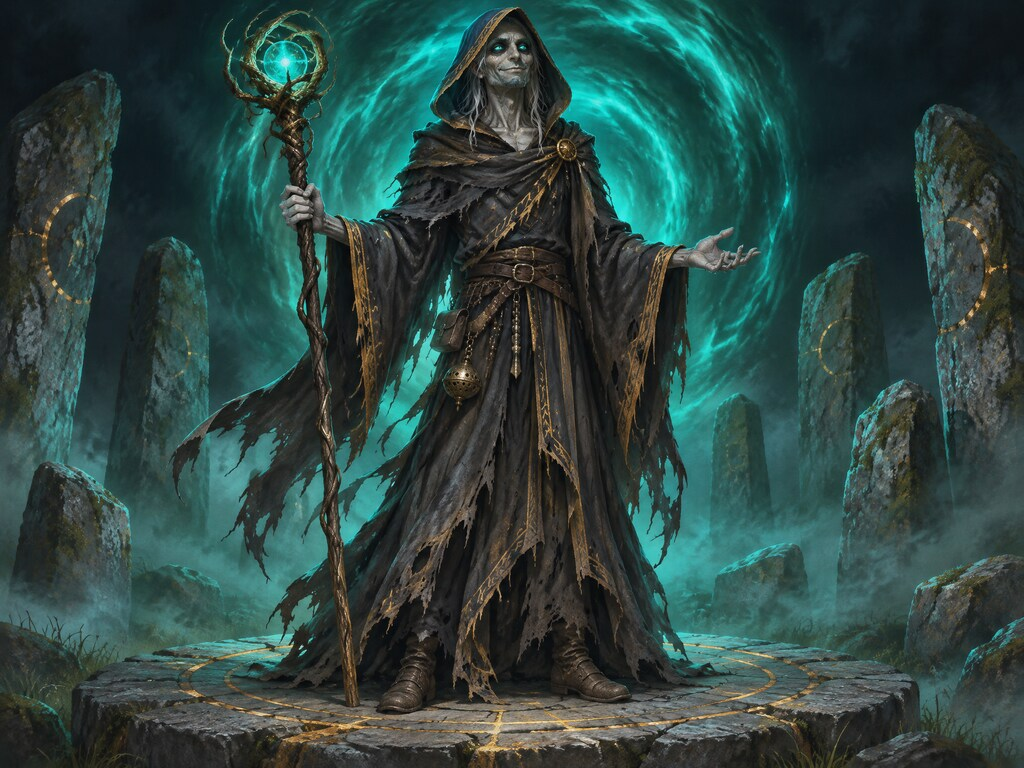
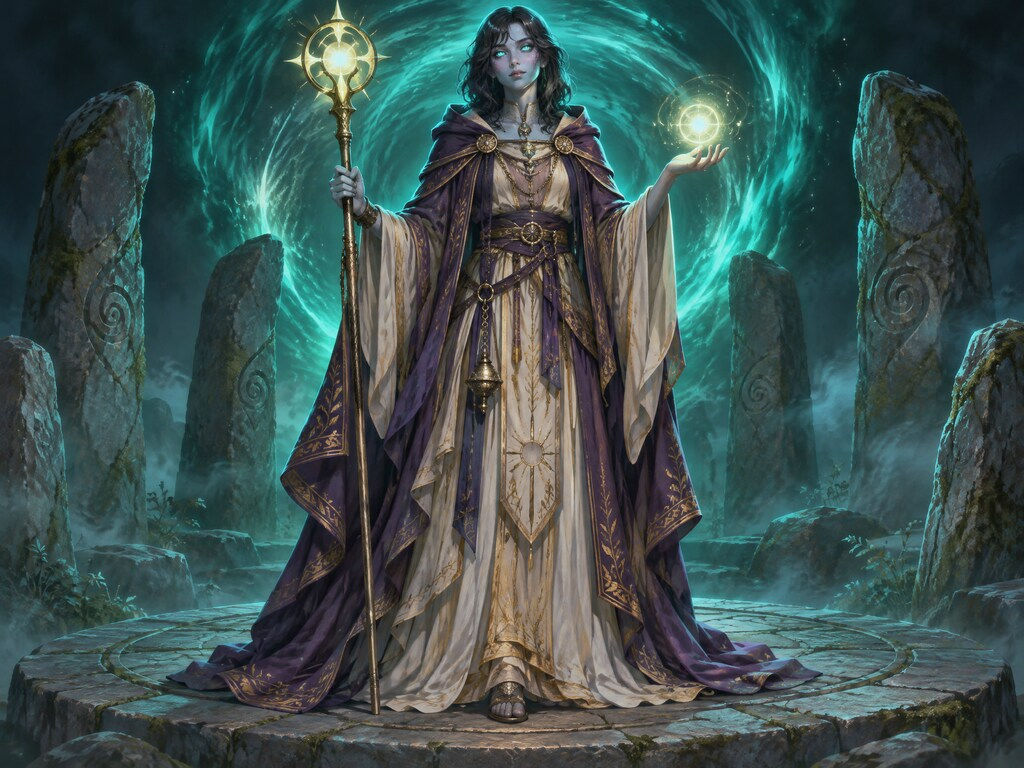
Ny präst-bild, Blizzking och klass för Lumos
Claude-Session: https://claude.ai/code/session_011Pk3ZqBVS4VHinLG8Ys8T9

diff --git a/index.html b/index.html
@@ -14,7 +14,7 @@
    PICTURE night scene with three hooded travellers walking a path to a glowing stone portal; intro: the portal opening
    COLOUR fixed night palette: smoke-brown ground, parchment ink, guild gold, arcane teal for magic, ember red for fines
    TYPE Cinzel for headings, Crimson Pro for text
-   LAYOUT nav, full-width scene with title in its sky, menu tiles overlapping its foot, rules, characters, guestbook, Blizzgirl, footer; phone stacks */
+   LAYOUT nav, full-width scene with title in its sky, menu tiles overlapping its foot, rules, characters, guestbook, Blizzking, footer; phone stacks */
 :root{color-scheme:dark;--bg:#14100c;--panel:#1d1711;--deep:#100c09;--edge:#4d3c24;--gold:#d9b26a;--gold2:#a8874e;--ink:#efe4cf;--muted:#bba98a;--red:#ea7d60;--teal:#62d6c8;--teal2:#1d6a64}
 *{box-sizing:border-box;min-width:0}
 html{scroll-padding-top:68px;scroll-behavior:smooth;background:var(--bg)}
@@ -181,7 +181,7 @@ button:disabled{opacity:.5;cursor:default}
   <button id="skip" type="button">Hoppa över</button>
 </div>
 
-<header class="nav"><div class="wrap navin"><a class="brand" href="#top">Gruppen</a><nav aria-label="Huvudmeny"><a href="#regler">Regler</a><a href="#gubbar">Gubbar</a><a href="#gosta">Blizzgirl</a></nav></div></header>
+<header class="nav"><div class="wrap navin"><a class="brand" href="#top">Gruppen</a><nav aria-label="Huvudmeny"><a href="#regler">Regler</a><a href="#gubbar">Gubbar</a><a href="#gosta">Blizzking</a></nav></div></header>
 
 <section class="hero" id="top">
   <img class="scene" src="hero.jpg" width="1024" height="512" alt="Tre vandrare går uppför en stig mot en lysande portal i en ring av stenar">
@@ -192,7 +192,7 @@ button:disabled{opacity:.5;cursor:default}
 <nav class="menu wrap" aria-label="Snabbmeny">
   <a class="tile" href="#regler"><svg viewBox="0 0 32 32"><path d="M8 5h17a3 3 0 0 1 0 6H22v14a3 3 0 0 1-3 3H6a3 3 0 0 1 0-6h3V8a3 3 0 0 0-1-3Z"/><path d="M13 13h5M13 17h5M13 21h4"/></svg><span class="tt">Spelregler</span><span class="ts">8 regler att följa</span></a>
   <a class="tile" href="#gubbar"><svg viewBox="0 0 32 32"><path d="M16 3l10 4v8c0 7-5 11-10 14C11 26 6 22 6 15V7Z"/><path d="M16 10v10M11 15h10"/></svg><span class="tt">Våra gubbar</span><span class="ts" id="t-chars">Levlar</span></a>
-  <a class="tile" href="#gosta"><svg viewBox="0 0 32 32"><path d="M6 19v-3a10 10 0 0 1 20 0v3"/><rect x="4" y="18" width="6" height="9" rx="2"/><rect x="22" y="18" width="6" height="9" rx="2"/><path d="M25 27c0 2-3 3-7 3"/></svg><span class="tt">Blizzgirl</span><span class="ts">Klicka för tips</span></a>
+  <a class="tile" href="#gosta"><svg viewBox="0 0 32 32"><path d="M6 19v-3a10 10 0 0 1 20 0v3"/><rect x="4" y="18" width="6" height="9" rx="2"/><rect x="22" y="18" width="6" height="9" rx="2"/><path d="M25 27c0 2-3 3-7 3"/></svg><span class="tt">Blizzking</span><span class="ts">Klicka för tips</span></a>
 </nav>
 
 <section id="regler" class="band wrap">
@@ -223,10 +223,10 @@ button:disabled{opacity:.5;cursor:default}
 
 <section id="gosta" class="band wrap">
   <div class="gs panel">
-    <button type="button" class="gpic" id="gosta-btn" aria-label="Klicka på Blizzgirl för ett tips"><img src="gosta.jpg" width="800" height="800" alt="Blizzgirl med glasögon och headset som vinkar"></button>
+    <button type="button" class="gpic" id="gosta-btn" aria-label="Klicka på Blizzking för ett tips"><img src="gosta.jpg" width="800" height="800" alt="Blizzking med huva och solglasögon vid datorn"></button>
     <div class="gtext">
-      <h2>Tips från Blizzgirl</h2>
-      <p class="small">Klicka på Blizzgirl så delar hon med sig av sin visdom.</p>
+      <h2>Tips från Blizzking</h2>
+      <p class="small">Klicka på Blizzking så delar han med sig av sin visdom.</p>
       <p class="bubble" id="gosta-say" aria-live="polite">Klicka på mig, jag har koll på allt!</p>
     </div>
   </div>
@@ -290,7 +290,7 @@ setInterval(()=>{renderWeek();if(curWeek()!==lastWeek){lastWeek=curWeek();render
 renderWeek();
 const raceOf=c=>{const t=String(c.cls||'').toLowerCase();return t.includes('tauren')?'tauren':t.includes('orc')?'orc':'undead'};
 const IMG={undead:'undead.jpg',orc:'orc.jpg',tauren:'tauren.jpg'};
-const ALT={undead:'Odöd trollkarl med lysande stav framför portalen',orc:'Grönhyad krigare med stor yxa framför portalen',tauren:'Tjurhövdad krigare i rustning med sköld och stridsklubba framför portalen'};
+const ALT={undead:'Odöd prästinna med ljusstav framför portalen',orc:'Grönhyad krigare med stor yxa framför portalen',tauren:'Tjurhövdad krigare i rustning med sköld och stridsklubba framför portalen'};
 for(const k in IMG){const im=new Image();im.src=IMG[k]}
 const nameOf=(c,i)=>esc(c.name)||'Gubbe '+(i+1);
 function renderChars(){
@@ -328,7 +328,7 @@ $('#plate').addEventListener('click',async e=>{
 });
 renderChars();
 
-/* Blizzgirl */
+/* Blizzking */
 const TIPS=['Calle kan verka lite vresig.','Lyssna inte på Jim, han snackar mest i nattmössan.','Calle har en tendens att gråta mycket.','Alex räknas som top tier healer.','Alex gjorde precis en crit heal på 1000! Wow!','Som det gamla talesättet säger: lita aldrig på en shaman.'];
 const EXTRA=['Kom ihåg regel 5: googla inte. 50 silver är 50 silver.','Reparera gearen innan ni går in i en dungeon.','Har någon inte loggat in på 4 dagar? Då gäller Slöfock-regeln.'];
 const say=$('#gosta-say');let lastTip='',clicks=[];
